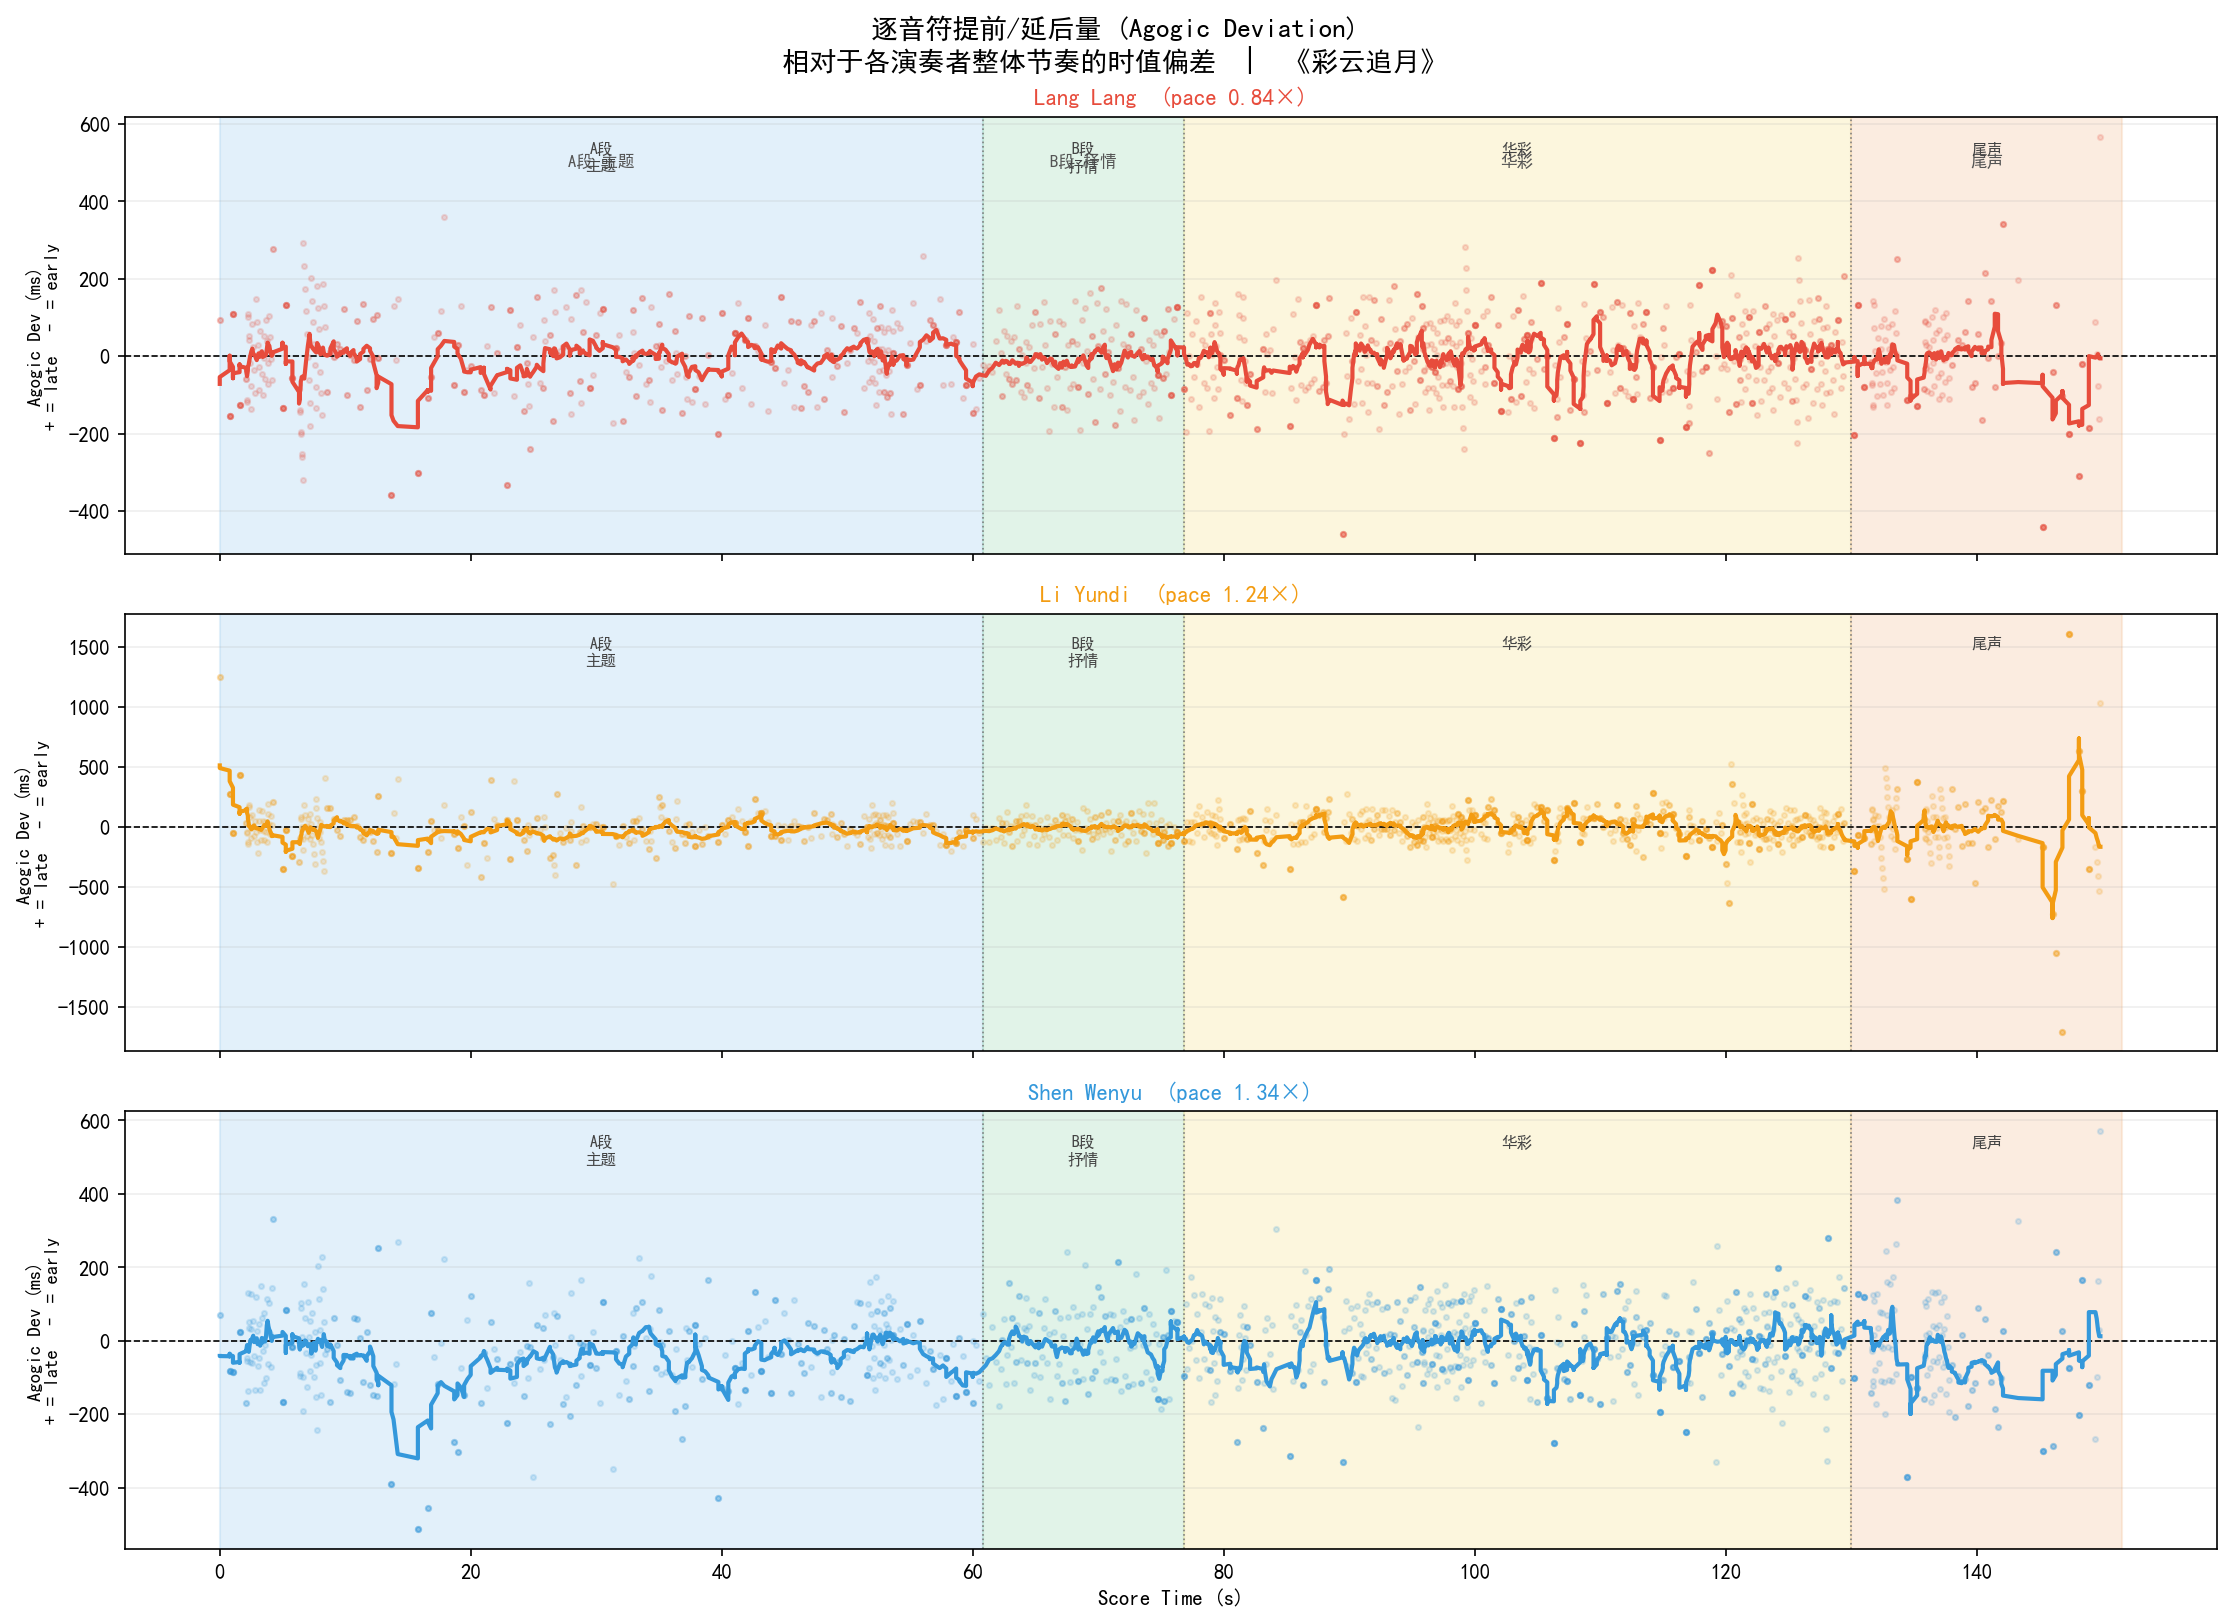
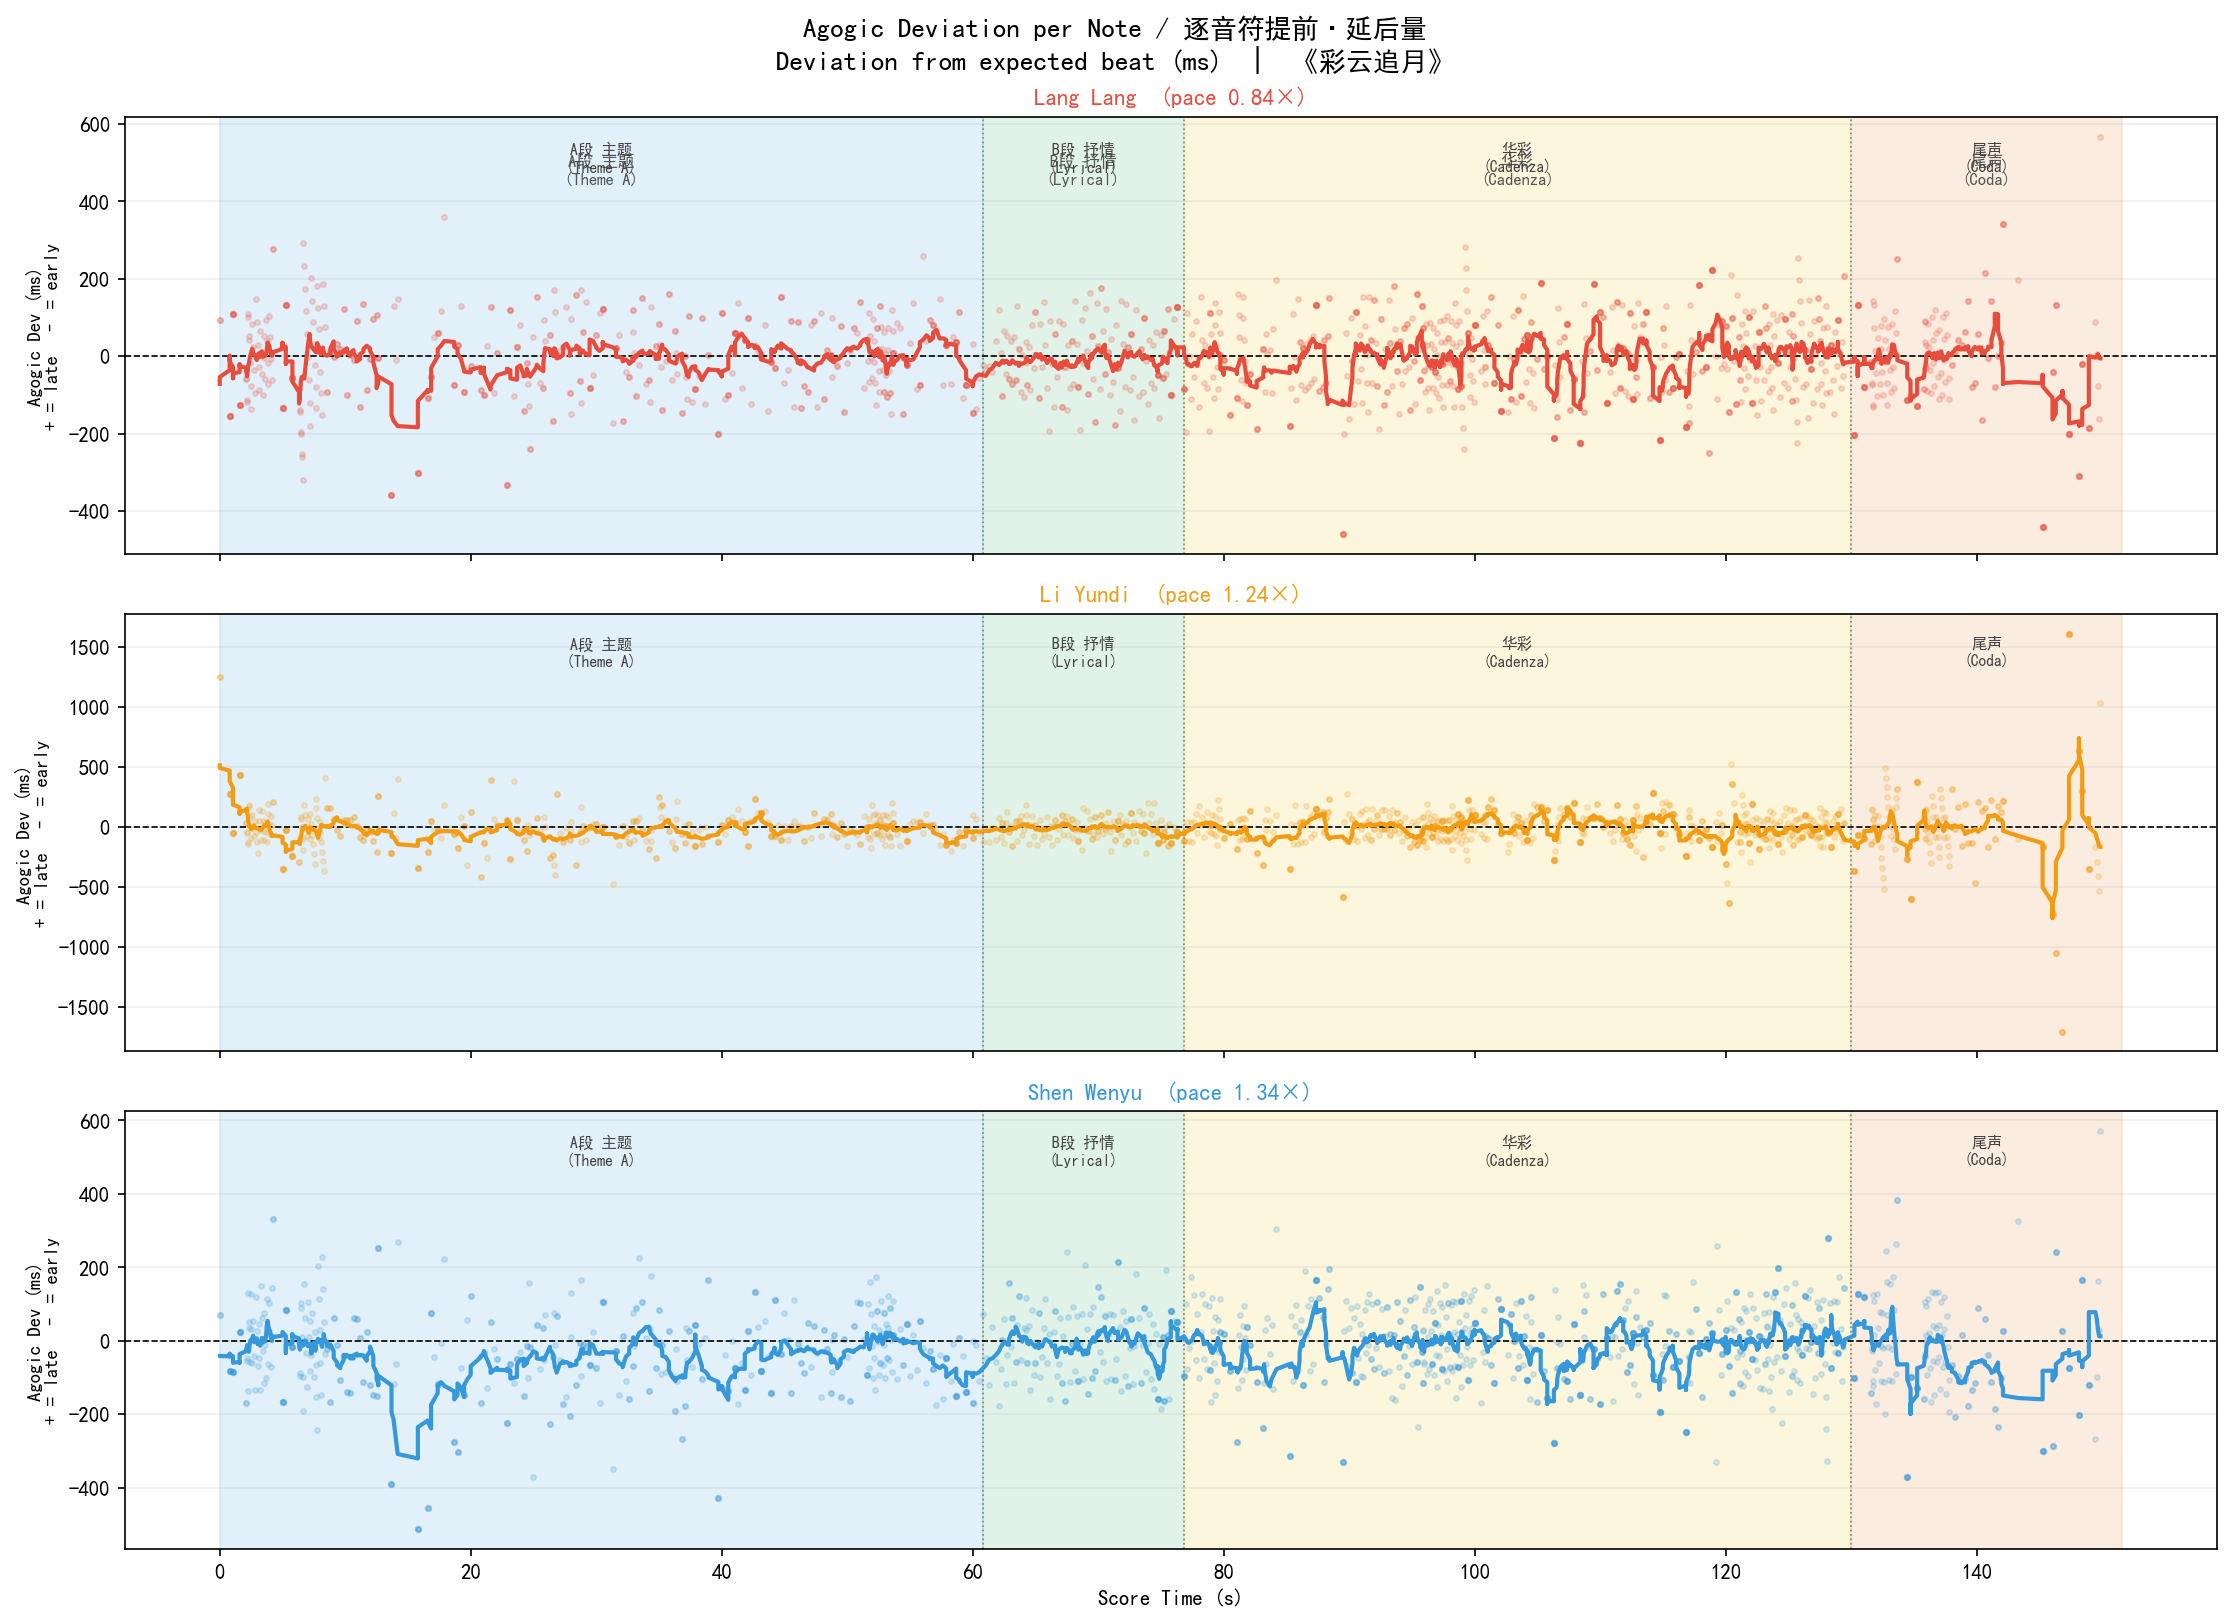
Add bilingual labels to all analysis plots
Section names now show Chinese + English (e.g. 华彩 / Cadenza).
Plot titles and axis labels updated to English-first with Chinese subtitle.
Affected: section_analysis.py (plots 14/15/16), note_alignment.py (17/18/19),
dynamics_paradox.py (20). All plots regenerated.

diff --git a/note_alignment.py b/note_alignment.py
@@ -46,6 +46,12 @@ SECTIONS = [
     ('华彩',     76.8,  130.0,  '#F9E79F'),
     ('尾声',    130.0,  151.6,  '#F5CBA7'),
 ]
+SEC_EN = {
+    'A段 主题': 'A段 主题\n(Theme A)',
+    'B段 抒情': 'B段 抒情\n(Lyrical)',
+    '华彩':     '华彩\n(Cadenza)',
+    '尾声':     '尾声\n(Coda)',
+}
 
 PERFORMERS = {
     'Lang Lang':  (base / 'normalized_audio' / 'normalized_langlang_caiyun.wav',  '#E74C3C'),
@@ -245,7 +251,7 @@ for ax, (name, res) in zip(axes, all_results.items()):
         for sec_name, start, end, _ in SECTIONS:
             mid_x = (start + end) / 2
             ax.text(mid_x, ax.get_ylim()[1] * 0.85 if ax.get_ylim()[1] > 0 else 200,
-                    sec_name, ha='center', va='top', fontsize=8,
+                    SEC_EN.get(sec_name, sec_name), ha='center', va='top', fontsize=8,
                     color='#555555', fontweight='bold')
 
 axes[-1].set_xlabel('Score Time (s)', fontsize=10)
@@ -255,11 +261,11 @@ for ax, (name, res) in zip(axes, all_results.items()):
     yhi = ax.get_ylim()[1]
     for sec_name, start, end, _ in SECTIONS:
         ax.text((start+end)/2, yhi * 0.90,
-                sec_name.replace(' ', '\n'), ha='center', va='top',
+                SEC_EN.get(sec_name, sec_name), ha='center', va='top',
                 fontsize=7.5, color='#444', fontweight='bold')
 
-fig.suptitle('逐音符提前/延后量 (Agogic Deviation)\n'
-             '相对于各演奏者整体节奏的时值偏差  |  《彩云追月》',
+fig.suptitle('Agogic Deviation per Note / 逐音符提前·延后量\n'
+             'Deviation from expected beat (ms)  |  《彩云追月》',
              fontsize=13, fontweight='bold')
 plt.tight_layout()
 p_a = out / '17_agogic_deviation.png'
@@ -288,11 +294,11 @@ ax.grid(True, alpha=0.2, axis='y')
 yhi, ylo = ax.get_ylim()
 for sec_name, start, end, _ in SECTIONS:
     ax.text((start+end)/2, yhi - (yhi-ylo)*0.06,
-            sec_name.replace(' ', '\n'), ha='center', va='top',
+            SEC_EN.get(sec_name, sec_name), ha='center', va='top',
             fontsize=8, color='#444', fontweight='bold')
 
-fig.suptitle('三位演奏者逐音符时值偏差叠加对比\n'
-             'Agogic Deviation Overlay — Lang Lang · Li Yundi · Shen Wenyu',
+fig.suptitle('Agogic Deviation Overlay / 三位演奏者逐音符时值偏差叠加对比\n'
+             'Lang Lang · Li Yundi · Shen Wenyu  |  《彩云追月》',
              fontsize=13, fontweight='bold')
 plt.tight_layout()
 p_b = out / '18_agogic_overlay.png'
@@ -321,15 +327,15 @@ for ax, (sec_name, sc_s, sc_e, bg) in zip(axes, SECTIONS):
         patch.set_facecolor(col)
         patch.set_alpha(0.75)
 
-    ax.set_title(sec_name, fontsize=11, fontweight='bold')
+    ax.set_title(SEC_EN.get(sec_name, sec_name), fontsize=10, fontweight='bold')
     ax.set_xticklabels(labels, fontsize=9)
     ax.axhline(0, color='gray', linewidth=0.8, linestyle='--')
     ax.grid(True, alpha=0.2, axis='y')
     if ax == axes[0]:
         ax.set_ylabel('Agogic Deviation (ms)', fontsize=10)
 
-fig.suptitle('各段落时值偏差分布 (Box Plot)\n'
-             'Distribution of Agogic Deviation per Section',
+fig.suptitle('Agogic Deviation Distribution per Section / 各段落时值偏差分布\n'
+             'Box plots — Lang Lang · Li Yundi · Shen Wenyu  |  《彩云追月》',
              fontsize=12, fontweight='bold')
 plt.tight_layout()
 p_c = out / '19_agogic_boxplot.png'

diff --git a/dynamics_paradox.py b/dynamics_paradox.py
@@ -39,6 +39,12 @@ SECTIONS = [
     ('华彩',      76.8,  130.0,  '#F9E79F'),
     ('尾声',     130.0,  151.6,  '#F5CBA7'),
 ]
+SEC_EN = {
+    'A段 主题': 'A段 主题\n(Theme A)',
+    'B段 抒情': 'B段 抒情\n(Lyrical)',
+    '华彩':     '华彩\n(Cadenza)',
+    '尾声':     '尾声\n(Coda)',
+}
 
 PERFORMERS = {
     'Lang Lang':  (base / 'normalized_audio' / 'normalized_langlang_caiyun.wav',  '#E74C3C'),
@@ -134,7 +140,7 @@ for name, d in data.items():
 yhi = ax_raw.get_ylim()[1]
 for sec_name, start, end, _ in SECTIONS:
     ax_raw.text((start+end)/2, yhi * 0.92,
-                sec_name, ha='center', va='top', fontsize=8.5,
+                SEC_EN.get(sec_name, sec_name), ha='center', va='top', fontsize=8.5,
                 color='#444', fontweight='bold')
 
 ax_raw.set_xlim(0, 156)
@@ -172,7 +178,7 @@ ax_norm.set_xlabel('Score Time (s)', fontsize=9)
 yhi_n = ax_norm.get_ylim()[1]
 for sec_name, start, end, _ in SECTIONS:
     ax_norm.text((start+end)/2, yhi_n * 0.92,
-                 sec_name, ha='center', va='top', fontsize=8.5,
+                 SEC_EN.get(sec_name, sec_name), ha='center', va='top', fontsize=8.5,
                  color='#444', fontweight='bold')
 
 # ── Panel 3: Per-section raw peak RMS bar chart ───────────────────────────────
@@ -189,9 +195,9 @@ for i, (name, col) in enumerate(zip(performers, colors)):
                         edgecolor='white', linewidth=0.5)
 
 ax_bar_r.set_xticks(x)
-ax_bar_r.set_xticklabels([s.replace(' ', '\n') for s in sec_names], fontsize=9)
+ax_bar_r.set_xticklabels([SEC_EN.get(s, s) for s in sec_names], fontsize=8)
 ax_bar_r.set_ylabel('Peak RMS (raw)', fontsize=9)
-ax_bar_r.set_title('③ 各段峰值 RMS（原始）\nShen Wenyu lowest raw amplitude',
+ax_bar_r.set_title('③ Peak RMS per Section (Raw) / 各段峰值 RMS（原始）\nShen Wenyu lowest raw amplitude',
                    fontsize=10, fontweight='bold')
 ax_bar_r.legend(fontsize=9)
 ax_bar_r.grid(True, alpha=0.2, axis='y')
@@ -205,17 +211,17 @@ for i, (name, col) in enumerate(zip(performers, colors)):
                  edgecolor='white', linewidth=0.5)
 
 # Highlight 华彩 with a box
-ax_bar_f.axvspan(1.5, 2.5, color='gold', alpha=0.15, zorder=0, label='华彩 highlight')
+ax_bar_f.axvspan(1.5, 2.5, color='gold', alpha=0.15, zorder=0, label='华彩 (Cadenza) highlight')
 
 ax_bar_f.set_xticks(x)
-ax_bar_f.set_xticklabels([s.replace(' ', '\n') for s in sec_names], fontsize=9)
+ax_bar_f.set_xticklabels([SEC_EN.get(s, s) for s in sec_names], fontsize=8)
 ax_bar_f.set_ylabel('Forte Ratio (%)\n[norm. RMS > 0.6]', fontsize=9)
-ax_bar_f.set_title('④ 归一化后强音比例 (ForteRatio)\nShen Wenyu highest in 华彩',
+ax_bar_f.set_title('④ ForteRatio after Normalisation / 归一化后强音比例\nShen Wenyu highest in 华彩 (Cadenza)',
                    fontsize=10, fontweight='bold')
 ax_bar_f.legend(fontsize=9)
 ax_bar_f.grid(True, alpha=0.2, axis='y')
 
-fig.suptitle('动态对比悖论：家庭录制 ≠ 弱演奏\n'
+fig.suptitle('The Dynamics Paradox / 动态对比悖论：家庭录制 ≠ 弱演奏\n'
              'The Dynamics Paradox — Shen Wenyu\'s home recording is acoustically quietest,\n'
              'yet reveals the most dramatic forte contrasts after device-independent normalisation',
              fontsize=12, fontweight='bold', y=0.98)

diff --git a/section_analysis.py b/section_analysis.py
@@ -266,12 +266,12 @@ for name, color in zip(PERF_NAMES, COLORS):
     ax2.plot(sec_labels, fortes, marker='s', color=color, linewidth=2.5,
              markersize=8, label=name)
 
-ax1.set_title('Rubato (IOI Timing CV) 各段落变化', fontsize=11, fontweight='bold')
-ax1.set_ylabel('Timing CV  (越高越自由)')
+ax1.set_title('Rubato (IOI Timing CV) per Section / 各段落节奏自由度', fontsize=11, fontweight='bold')
+ax1.set_ylabel('Timing CV  (higher = more flexible / 越高越自由)')
 ax1.legend(); ax1.grid(True, alpha=0.3)
 
-ax2.set_title('强奏比例 (Forte Ratio) 各段落变化', fontsize=11, fontweight='bold')
-ax2.set_ylabel('Forte Ratio  (越高越大声)')
+ax2.set_title('Forte Ratio per Section / 各段落强奏比例', fontsize=11, fontweight='bold')
+ax2.set_ylabel('Forte Ratio  (higher = louder / 越高越大声)')
 ax2.yaxis.set_major_formatter(plt.FuncFormatter(lambda v, _: f'{v:.0%}'))
 ax2.legend(); ax2.grid(True, alpha=0.3)
 
